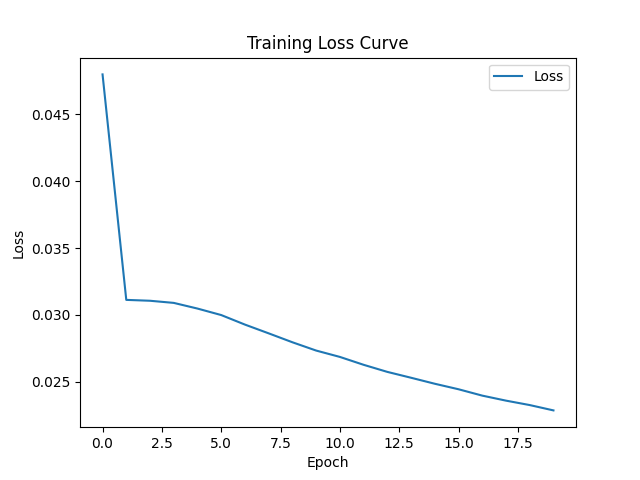
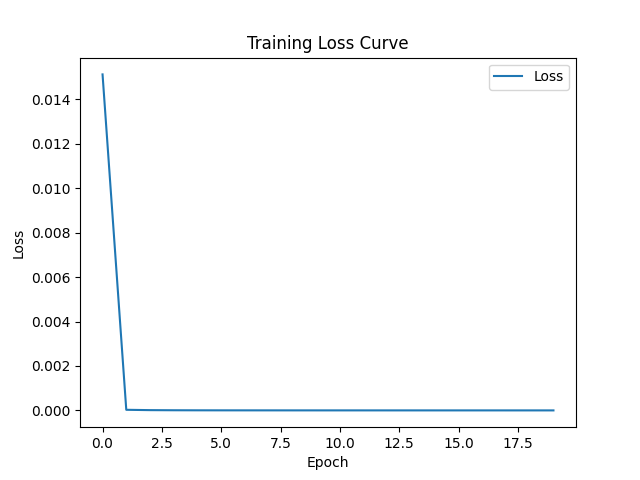
fixed predictions

diff --git a/train.py b/train.py
@@ -1,6 +1,5 @@
 import wandb
 import os
-import pdb
 import h5py
 import numpy as np
 import torch
@@ -8,7 +7,7 @@ from torch.utils.data import Dataset, DataLoader
 import torch.nn as nn
 import torch.optim as optim
 import matplotlib.pyplot as plt
-from models import MineralTransformer, SimpleMineralTransformer
+from models import MineralTransformer
 from utils import visualize_layers, compute_dice_coefficients, plot_dice_coefficients, plot_metric, weighted_mse_loss
 
 # Initialize wandb
@@ -17,6 +16,7 @@ wandb.init(project="mineral_transformer_project", name="2048_0.0001TEST")
 grid_size = 50
 d_model = 256
 num_minerals = 10  # Based on the provided details
+mask_fraction = 0.1  # Fraction of cells to be masked
 
 class MineralDataset(Dataset):
     def __init__(self, h5_file_path, input_minerals, output_mineral, train=True, train_size=0.8):
@@ -45,10 +45,16 @@ class MineralDataset(Dataset):
 
     def __getitem__(self, idx):
         index = self.indices[idx]
-        input_data = self.counts[index, self.input_minerals, :, :]
-        output_data = self.counts[index, self.output_mineral:self.output_mineral+1, :, :]
+        input_data = self.counts[index].copy()
+        output_data = input_data[self.output_mineral:self.output_mineral+1, :, :]
+        
+        if self.train:
+            input_data[self.output_mineral, :, :] = 0  # Mask Nickel data
+        
         return torch.tensor(input_data, dtype=torch.float32), torch.tensor(output_data, dtype=torch.float32)
+
 losses = []
+
 def train(model, train_loader, num_epochs=500, learning_rate=0.001):
     optimizer = optim.AdamW(model.parameters(), lr=learning_rate)
     criterion = nn.MSELoss()
@@ -57,7 +63,6 @@ def train(model, train_loader, num_epochs=500, learning_rate=0.001):
         model.train()
         total_loss = 0
         for input_tensor_train, output_tensor_train in train_loader:
-            # pdb.set_trace()
             optimizer.zero_grad()
             outputs = model(input_tensor_train, output_tensor_train)
 
@@ -146,21 +151,21 @@ print(f'Nickel: Metric = {metric}')
 plot_metric(metric_values, ['Nickel'])
 wandb.save('metric_plot.png')  # Save the plot to wandb
 
-# VIS
-input_elements = ['Gold', 'Silver', 'Zinc', 'Lead', 'Copper', 'Iron', 'Uranium', 'Tungsten', 'Manganese']
-output_element = 'Nickel'
+# Enhanced Visualization
+def visualize_predictions(predicted, ground_truth, idx):
+    fig, axes = plt.subplots(1, 2, figsize=(10, 5))
+    axes[0].imshow(predicted[idx, 0, :, :], cmap='viridis')
+    axes[0].set_title('Predicted Nickel')
+    axes[1].imshow(ground_truth[idx, 0, :, :], cmap='viridis')
+    axes[1].set_title('Ground Truth Nickel')
+    plt.show()
 
-visualize_layers(0, np.zeros_like(output_np_test[0]), output_np_test[0], predicted_np_test[0], input_elements, [output_element])
-
-# Dice coefficients for Nickel in the US
-dice_coeffs = compute_dice_coefficients(flattened_predicted_np_test[0], flattened_output_np_test[0], threshold=0)
-plot_dice_coefficients(dice_coeffs, [output_element])
-wandb.save('dice_coefficients_plot.png')  # Save the plot to wandb
+# Visualize a few samples from the test set
+for i in range(5):
+    visualize_predictions(predicted_np_test, output_np_test, i)
 
 # Finish the wandb run
 wandb.finish()
-
-
 
 
 
